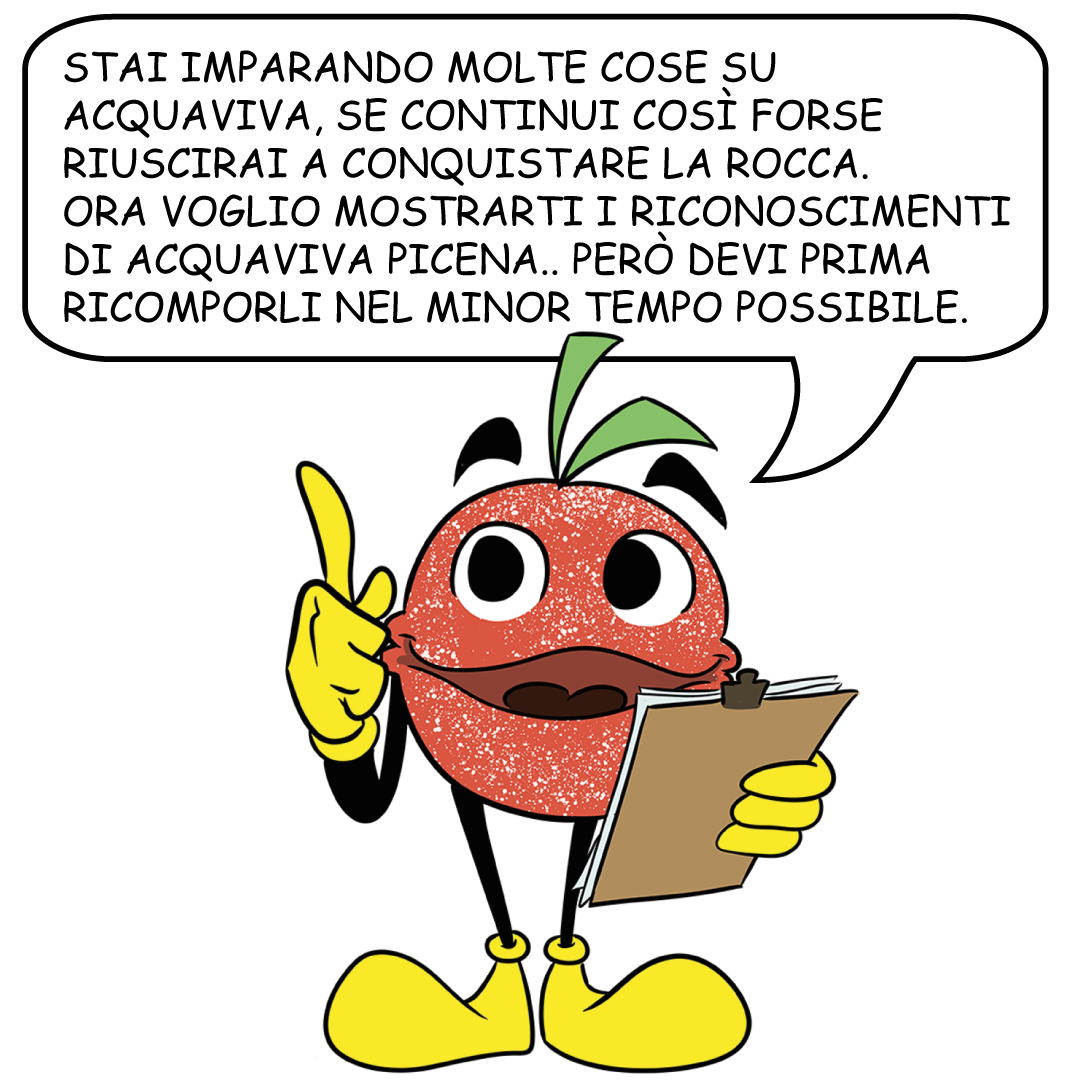
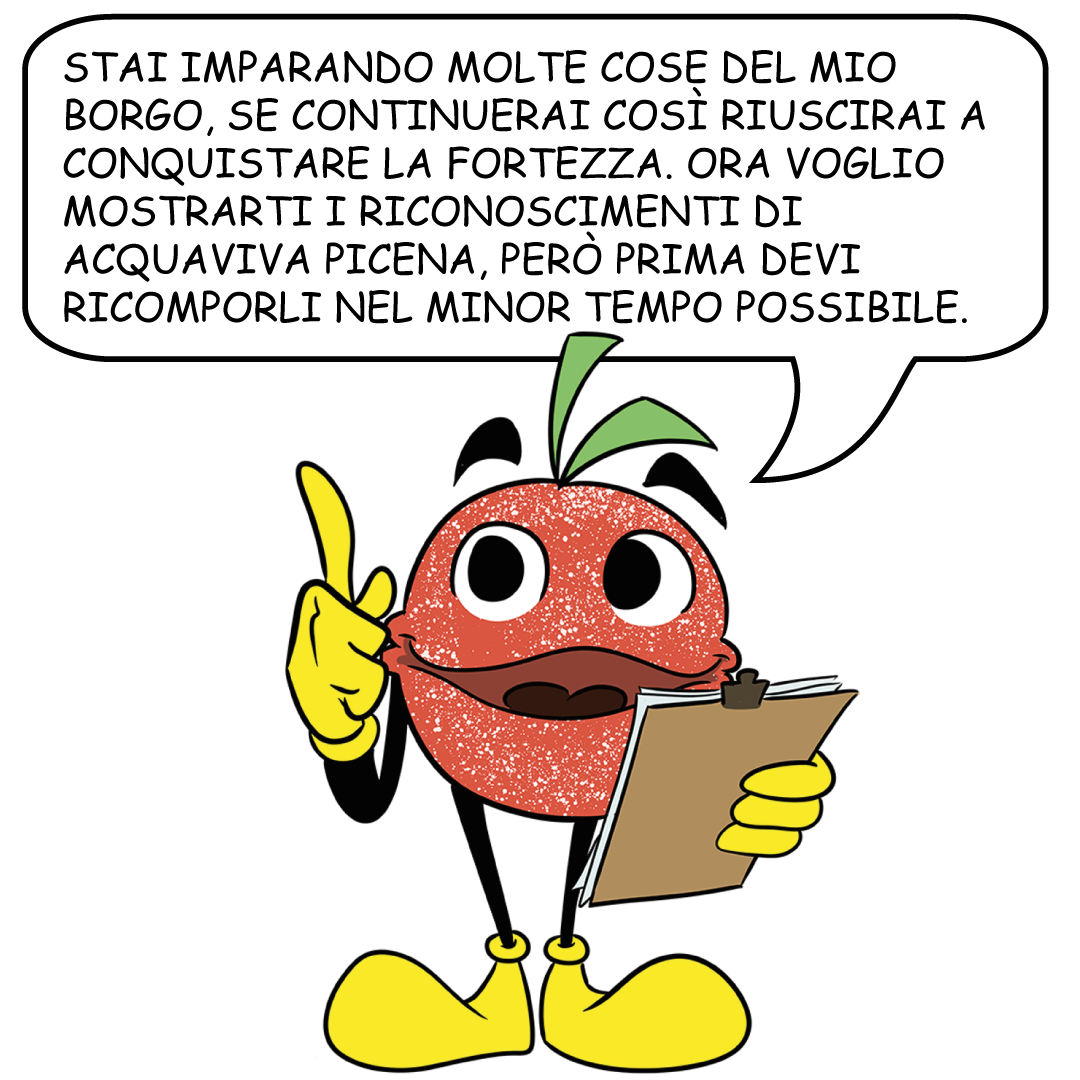
gioco corretto, manca poco

Changed region(s): [[0.0611, 0.0306, 0.9472, 0.275]]

diff --git a/src/scenes/Icomune.js b/src/scenes/Icomune.js
@@ -27,7 +27,7 @@ export class Icomune extends Phaser.Scene {
                     {type: "image", value: "Famiglia Acquaviva"},
                     {type: "image", value: "Famiglia Brunforti"}, 
                     {type: "image", value: "Famiglia Neroni"},
-                    {type: "image", value: "Famiglia Infriccioli"}, 
+                    {type: "image", value: "Famiglia Savoia"}, 
                     {type: "image", value: "Famiglia Cancelli"},
                     {type: "image", value: "Famiglia Campanelli"}
                 ], 
@@ -41,7 +41,7 @@ export class Icomune extends Phaser.Scene {
                     {type: "image", value: "Cancelli Neroni"},
                     {type: "image", value: "Cancelli Sforza"}, 
                     {type: "image", value: "Brunforte Cancelli"},
-                    {type: "image", value: "Cancelli Spaccasassi"}
+                    {type: "image", value: "Cancelli Asburgo"}
                 ], 
                 correct: 2 
             },
@@ -122,7 +122,7 @@ export class Icomune extends Phaser.Scene {
                 correct: 1 
             },
             {
-                question: "Palazzo chiappini è accessibile per chi ha difficoltà motorie?", 
+                question: "Palazzo Chiappini è accessibile per chi ha difficoltà motorie?", 
                 answers: [
                     {type: "image", value: " "},
                     {type: "image", value: "  "}, 
@@ -204,13 +204,13 @@ export class Icomune extends Phaser.Scene {
         this.load.image('Cancelli Neroni', 'assets/icomune/03/cancelli-neroni.png');
         this.load.image('Cancelli Sforza', 'assets/icomune/03/cancelli-sforza.png');
         this.load.image('Brunforte Cancelli', 'assets/icomune/03/brunforte-cancelli.png');
-        this.load.image('Cancelli Spaccasassi', 'assets/icomune/03/cancelli-spaccasassi.png');
+        this.load.image('Cancelli Asburgo', 'assets/icomune/03/cancelli-spaccasassi.png');
 
         // Carico le famiglie per le risposte domanda 2
         this.load.image('Famiglia Acquaviva', 'assets/icomune/02/famiglia-acquaviva.png');
         this.load.image('Famiglia Brunforti', 'assets/icomune/02/famiglia-brunforti.png');
         this.load.image('Famiglia Neroni', 'assets/icomune/02/famiglia-neroni.png');
-        this.load.image('Famiglia Infriccioli', 'assets/icomune/02/famiglia-infriccioli.png');
+        this.load.image('Famiglia Savoia', 'assets/icomune/02/famiglia-infriccioli.png');
         this.load.image('Famiglia Cancelli', 'assets/icomune/02/famiglia-cancelli.png');
         this.load.image('Famiglia Campanelli', 'assets/icomune/02/famiglia-campanelli.png');
 

diff --git a/src/scenes/DecoPuzzle.js b/src/scenes/DecoPuzzle.js
@@ -39,9 +39,9 @@ export class DecoPuzzle extends Phaser.Scene {
 		this.load.image('comuneAcqua', 'assets/decopuzzle/comune-acquaviva.png');
 		
 		// Carica le immagini per i round successivi
-		this.load.image('pic1', 'assets/decopuzzle/stemma-comune.png');
-		this.load.image('pic2', 'assets/decopuzzle/logo-de-co.png'); // Sostituisci con il percorso corretto
-		this.load.image('pic3', 'assets/decopuzzle/comune-acquaviva.png'); // Sostituisci con il percorso corretto
+		this.load.image('foto1', 'assets/decopuzzle/stemma-comune.png');
+		this.load.image('foto2', 'assets/decopuzzle/logo-de-co.png'); // Sostituisci con il percorso corretto
+		this.load.image('foto3', 'assets/decopuzzle/comune-acquaviva.png'); // Sostituisci con il percorso corretto
 	}
 
 	create () {
@@ -54,7 +54,7 @@ export class DecoPuzzle extends Phaser.Scene {
 		this.titleText = this.add.text(
 			this.cameras.main.centerX,
 			80,
-			'Stemma di Acquaviva',
+			'Stemma di Acquaviva Picena',
 			{
 				fontFamily: 'Poppins',
 				fontSize: '24px',
@@ -67,7 +67,7 @@ export class DecoPuzzle extends Phaser.Scene {
 		this.fullImage = this.add.image(
 			this.cameras.main.centerX,
 			this.cameras.main.centerY - 50,
-			 'stemma'
+			 'foto1'
 		).setOrigin(0.5);
 
 		this.startButton = createPrimaryButton(
@@ -78,7 +78,7 @@ export class DecoPuzzle extends Phaser.Scene {
 			() => {
 				this.fullImage.destroy();
 				// Avvia il puzzle con 'stemma'
-				this.startPuzzle('stemma', 3, 3);
+				this.startPuzzle('foto1', 3, 3);
 				this.startButton.destroy();
 				this.startTime = this.time.now;
 			}
@@ -300,15 +300,15 @@ export class DecoPuzzle extends Phaser.Scene {
 
 		let size, iterations, nextPhoto, title;
 		if (this.currentRound === 2) {
-			nextPhoto = 'pic2';
+			nextPhoto = 'foto2';
 			size = 3;
 			iterations = 6;
-			title = 'Bandiera Arancione per il Borgo Storico';
+			title = 'Logo De.C.O. Denominazione Comunale di Origine';
 		} else if (this.currentRound === 3) {
-			nextPhoto = 'pic3';
+			nextPhoto = 'foto3';
 			size = 3;
 			iterations = 6;
-			title = 'I riconoscimenti di Acquaviva Picena';
+			title = 'Comune di Acquaviva Picena';
 		}
 
 		if (this.titleText) {

diff --git a/src/scenes/Wherisacquaviva.js b/src/scenes/Wherisacquaviva.js
@@ -116,15 +116,15 @@ export class WherisAcquaviva extends Phaser.Scene {
                 answers: [
                     {type: "text", value:"Maiella"}, 
                     {type: "text", value:"Gran\nSasso"}, 
-                    {type: "text", value:"Monte\nConero"}, 
+                    {type: "text", value:"Conero"}, 
                     {type: "text", value:"Sibillini"},
-                    {type: "text", value:"Monti\nNebbiosi"},
-                    {type: "text", value:"Monte\nOlimpo"}
+                    {type: "text", value:"Nebbiosi"},
+                    {type: "text", value:"Olimpo"}
                 ], 
                 correct: 3 
             },
             {
-                question: "La vetta più alta dei sibillini?", 
+                question: "Come si chiama la vetta più alta dei Sibillini?", 
                 answers: [
                     {type: "text", value:"Sibilla"}, 
                     {type: "text", value:"Picco\ndel Sole"}, 
@@ -135,7 +135,7 @@ export class WherisAcquaviva extends Phaser.Scene {
                 correct: 2 
             },
             {
-                question: "La riserva naturale regionale più vicina come si chiama? ", 
+                question: "La Riserva Naturale Regionale più vicina come si chiama? ", 
                 answers: [
                     {type: "text", value:"Conero"}, 
                     {type: "text", value:"Fiastra"}, 

diff --git a/src/scenes/Sciabolone.js b/src/scenes/Sciabolone.js
@@ -16,7 +16,7 @@ export class Sciabolone extends Phaser.Scene {
         // Aggiungi l'array dei titoli di incoraggiamento
         this.levelTitles = [
             "Elimina i soldati francesi!",
-            "Sò che puoi farcela!",
+            "So che puoi farcela!",
             "Proprio cosi, continua!",
             "Sono veramente tanti.. forzaaa!",
             "Sbucano ovunque... Speriamo siano gli ultimi!!!"
@@ -60,7 +60,7 @@ export class Sciabolone extends Phaser.Scene {
         this.instructionText = this.add.text(
             this.cameras.main.centerX,
             textY,
-            "L'esercito francese è rintanato nella fortezza. Il coraggioso Giuseppe Costantini, detto Sciabolone, è l'unico che può sconfiggerli.\n Aiutalo ad eliminare tutti i soldati dalla rocca!",
+            "L'esercito francese è rintanato nella fortezza. Il coraggioso Giuseppe Costantini, detto Sciabolone, è l'unico capace di sconfiggerli.\n Aiutalo ad eliminarli.",
             {
                 fontFamily: 'Poppins',
                 fontSize: '18px',

diff --git a/src/scenes/FlagPuzzle.js b/src/scenes/FlagPuzzle.js
@@ -479,7 +479,7 @@ export class FlagPuzzle extends Phaser.Scene
             nextPhoto = 'pic2';
             size = 3;
             iterations = 6;
-            title = 'Bandiera Arancione per il Borgo Storico';
+            title = 'Bandiera Arancione del Touring Club d\'Italia';
         }
         else if (this.currentRound === 3) {
             nextPhoto = 'pic3';
@@ -554,7 +554,8 @@ export class FlagPuzzle extends Phaser.Scene
         const finalScore = Math.max(0, Math.ceil(baseScore - (timeElapsed / 1000)));
 
         // Passa solo punteggio e tempo alla scena finale
-        this.scene.start('FineFlagPuzzle', { 
+        //this.scene.start('FineFlagPuzzle', { 
+            this.scene.start('DecoPuzzle', {
             score: finalScore, 
             time: timeElapsed 
         });

diff --git a/src/scenes/intro/SweetPeachInstructions.js b/src/scenes/intro/SweetPeachInstructions.js
@@ -20,11 +20,13 @@ export class SweetPeachInstructions extends Phaser.Scene {
         const titleText = this.add.text(
             this.cameras.main.centerX,
             this.cameras.main.height * 0.1,
-            'Sweet Peach',
+            'PESCHETTA\n"Sweet Peach"',
             {
                 fontFamily: 'Arial',
-                fontSize: '38px',
-                color: '#000000'
+                fontSize: '36px',
+                color: '#000000',
+                align: 'center',
+            wordWrap: { width: this.cameras.main.width * 0.85, useAdvancedWrap: true }
             }
         ).setOrigin(0.5);
         

diff --git a/src/scenes/FortezzaGost.js b/src/scenes/FortezzaGost.js
@@ -46,7 +46,7 @@ export class FortezzaGost extends Phaser.Scene {
         this.instructionText = this.add.text(
             this.cameras.main.centerX,
             textY,
-            "Dopo il fattaccio, il fantasma del capitano della guardia inquieto si aggira nella fortezza, per fargli trovare pace bisognerà toccarlo 10 volte..",
+            "Dopo il fattaccio, il fantasma del capitano delle guardie inquieto si aggira nella fortezza, per fargli trovare pace bisognerà toccarlo 10 volte..",
             {
                 fontFamily: 'Poppins',
                 fontSize: '18px',

diff --git a/src/scenes/intro/SponsaliaDecoIntro.js b/src/scenes/intro/SponsaliaDecoIntro.js
@@ -19,10 +19,10 @@ export class SponsaliaDecoIntro extends Phaser.Scene {
         const titleText = this.add.text(
             this.cameras.main.centerX,
             this.cameras.main.height * 0.1, // Posizionato al 10% dell'altezza
-            'Sponsalìa De.Co.',
+            'Sponsalia De.C.O.',
             {
                 fontFamily: 'Poppins',
-                fontSize: '34px',
+                fontSize: '32px',
                 color: '#000000',
                 wordWrap: { width: this.cameras.main.width * 0.8 }
             }

diff --git a/src/scenes/intro/DecoPuzzleIntro.js b/src/scenes/intro/DecoPuzzleIntro.js
@@ -19,7 +19,7 @@ export class DecoPuzzleIntro extends Phaser.Scene {
         const titleText = this.add.text(
             this.cameras.main.centerX,
             this.cameras.main.height * 0.1, // Posizionato al 10% dell'altezza
-            'De. Co. Puzzle',
+            'De. C.O. Puzzle',
             {
                 fontFamily: 'Poppins',
                 fontSize: '34px',

diff --git a/src/scenes/intro/BonusVinoMemoryIntro.js b/src/scenes/intro/BonusVinoMemoryIntro.js
@@ -19,7 +19,7 @@ export class BonusVinoMemoryIntro extends Phaser.Scene {
         const titleText = this.add.text(
             this.cameras.main.centerX,
             this.cameras.main.height * 0.1, // Posizionato al 10% dell'altezza
-            'VinoMemory',
+            'Vino Memory',
             {
                 fontFamily: 'Poppins',
                 fontSize: '34px',

diff --git a/src/scenes/end/FineSciabolone.js b/src/scenes/end/FineSciabolone.js
@@ -61,7 +61,7 @@ export class FineSciabolone extends Phaser.Scene {
             this,
             this.cameras.main.centerX,
             timeText.y + 60,
-            'Vai alla Rocca',
+            'Vai alla Fortezza',
             () => this.scene.start('BonusVinoMemoryIntro')
         );
     }
